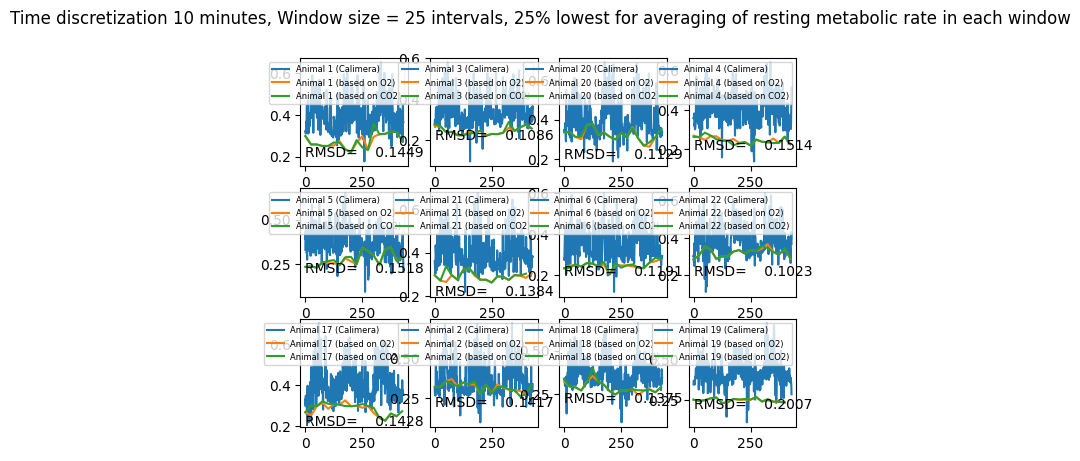
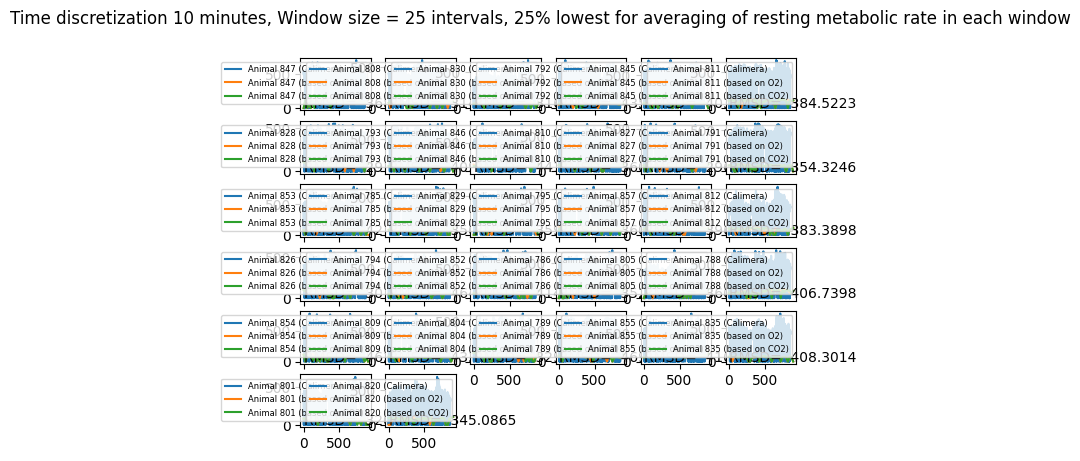
Changes to plotting script.

Changed region(s): [[0.2139, 0.1215, 0.7944, 0.9718]]

diff --git a/Comparison calimera/compare.py b/Comparison calimera/compare.py
@@ -9,16 +9,19 @@ if __name__ == "__main__":
     parser = argparse.ArgumentParser(
         description='Run plot_comp_times.py')
     parser.add_argument('-f', '--file', dest='file', required=True)
+    parser.add_argument('-r', '--reference', dest='reference', required=True)
     parser.add_argument('-w', '--window', dest='window', required=True)
     args = parser.parse_args()
 
-    dfCalimera = pd.read_csv('comp_table.tsv', sep='\t')
+    dfCalimera = pd.read_csv(args.reference, sep='\t')
     dfShiny = pd.read_csv(args.file, sep=";")
     animal_ids = dfCalimera.columns.tolist()[4:]
     num_rows2 = math.ceil((len(dfShiny.index) - 1) / len(animal_ids))
     num_rows = len(dfCalimera.index) - 1
 
     print(num_rows2)
+    print("calimera")
+    print(num_rows)
     if num_rows != num_rows2:
         print("do not match!")
 
@@ -26,19 +29,22 @@ if __name__ == "__main__":
 
     for index, animal in enumerate(animal_ids):
         timepoints = dfShiny.loc[(dfShiny["Animal"] == int(animal)) & (dfShiny["Component"] == "O2")]["Time"].tolist()
+        # Shiny might have too many rows as well depending on averaging etc.
+        timepoints = [t for t in timepoints if t < num_rows]
         datapoints =  dfShiny.loc[(dfShiny["Animal"] == int(animal)) & (dfShiny["Component"] == "O2")]["HP"].tolist()
+        datapoints = datapoints[0:len(timepoints)]
         datapointsRef = dfCalimera[animal][1:].tolist()
         datapointsRef = [datapointsRef[i] for i in timepoints]
         rmsds.append(np.sqrt(np.mean((np.array(datapointsRef)-np.array(datapoints))**2)))
         
     
     for index, column in enumerate(animal_ids):
-        plt.subplot(3, 4, index + 1)
+        plt.subplot(6, 6, index + 1) # 3, 4
         plt.plot(range(0, num_rows), dfCalimera[column][1:], label=f"Animal {column} (Calimera)")
         plt.legend(loc=2, prop={'size' : 6})
 
     for index, animal in enumerate(animal_ids):
-        plt.subplot(3, 4, index + 1)
+        plt.subplot(6, 6, index + 1) # 3, 4
         plt.plot(dfShiny.loc[(dfShiny["Animal"] == int(animal)) & (dfShiny["Component"] == "O2")]["Time"].tolist(), dfShiny.loc[(dfShiny["Animal"] == int(animal)) & (dfShiny["Component"] == "O2")]["HP"].tolist(), label=f"Animal {animal} (based on O2)")
         plt.plot(dfShiny.loc[(dfShiny["Animal"] == int(animal)) & (dfShiny["Component"] == "CO2")]["Time"].tolist(), dfShiny.loc[(dfShiny["Animal"] == int(animal)) & (dfShiny["Component"] == "CO2")]["HP"].tolist(), label=f"Animal {animal} (based on CO2)")
         plt.legend(loc=1, prop={'size' : 6})
@@ -46,23 +52,24 @@ if __name__ == "__main__":
 
     min_RMRs = []
     for index, animal in enumerate(animal_ids):
-        min_RMRs.append(24 * 6 * min(dfShiny.loc[dfShiny["Animal"] == int(animal)]["HP"].tolist())) 
+        min_RMRs.append(24  * min(dfShiny.loc[dfShiny["Animal"] == int(animal)]["HP"].tolist()))  # *6 (10 minute interval) # 5 minute interval = 12
 
     min_RMRsRef = []
     for index, animal in enumerate(animal_ids):
-        min_RMRsRef.append(24 * 6 * min(dfCalimera[animal][1:].tolist()))
+        min_RMRsRef.append(24  * min(dfCalimera[animal][1:].tolist())) # *6
 
     manager = plt.get_current_fig_manager()
-    manager.window.showMaximized()
+    # manager.window.showMaximized()
     plt.suptitle(f"Time discretization 10 minutes, Window size = {args.window} intervals, 25% lowest for averaging of resting metabolic rate in each window")
     plt.savefig(f"comparison_with_calimera_window_size={args.window}.png", bbox_inches='tight')
     plt.show()
 
 
     data = {'Our' : min_RMRs, 'Ref' : min_RMRsRef}
-    plt.boxplot(data.values())
+    plt.boxplot(data.values(), showfliers=False, sym='')
     plt.xticks([1,2], ['w/o activity data', 'w activity data'])
     plt.plot([1]*len(min_RMRs), min_RMRs, 'r.', alpha=.2)
+    plt.ylim([0, 20])
     for index, val in enumerate(min_RMRs):
         plt.text(1.01, val, animal_ids[index], fontsize=6)
     plt.plot([2]*len(min_RMRs), min_RMRsRef, 'r.', alpha=.2)
